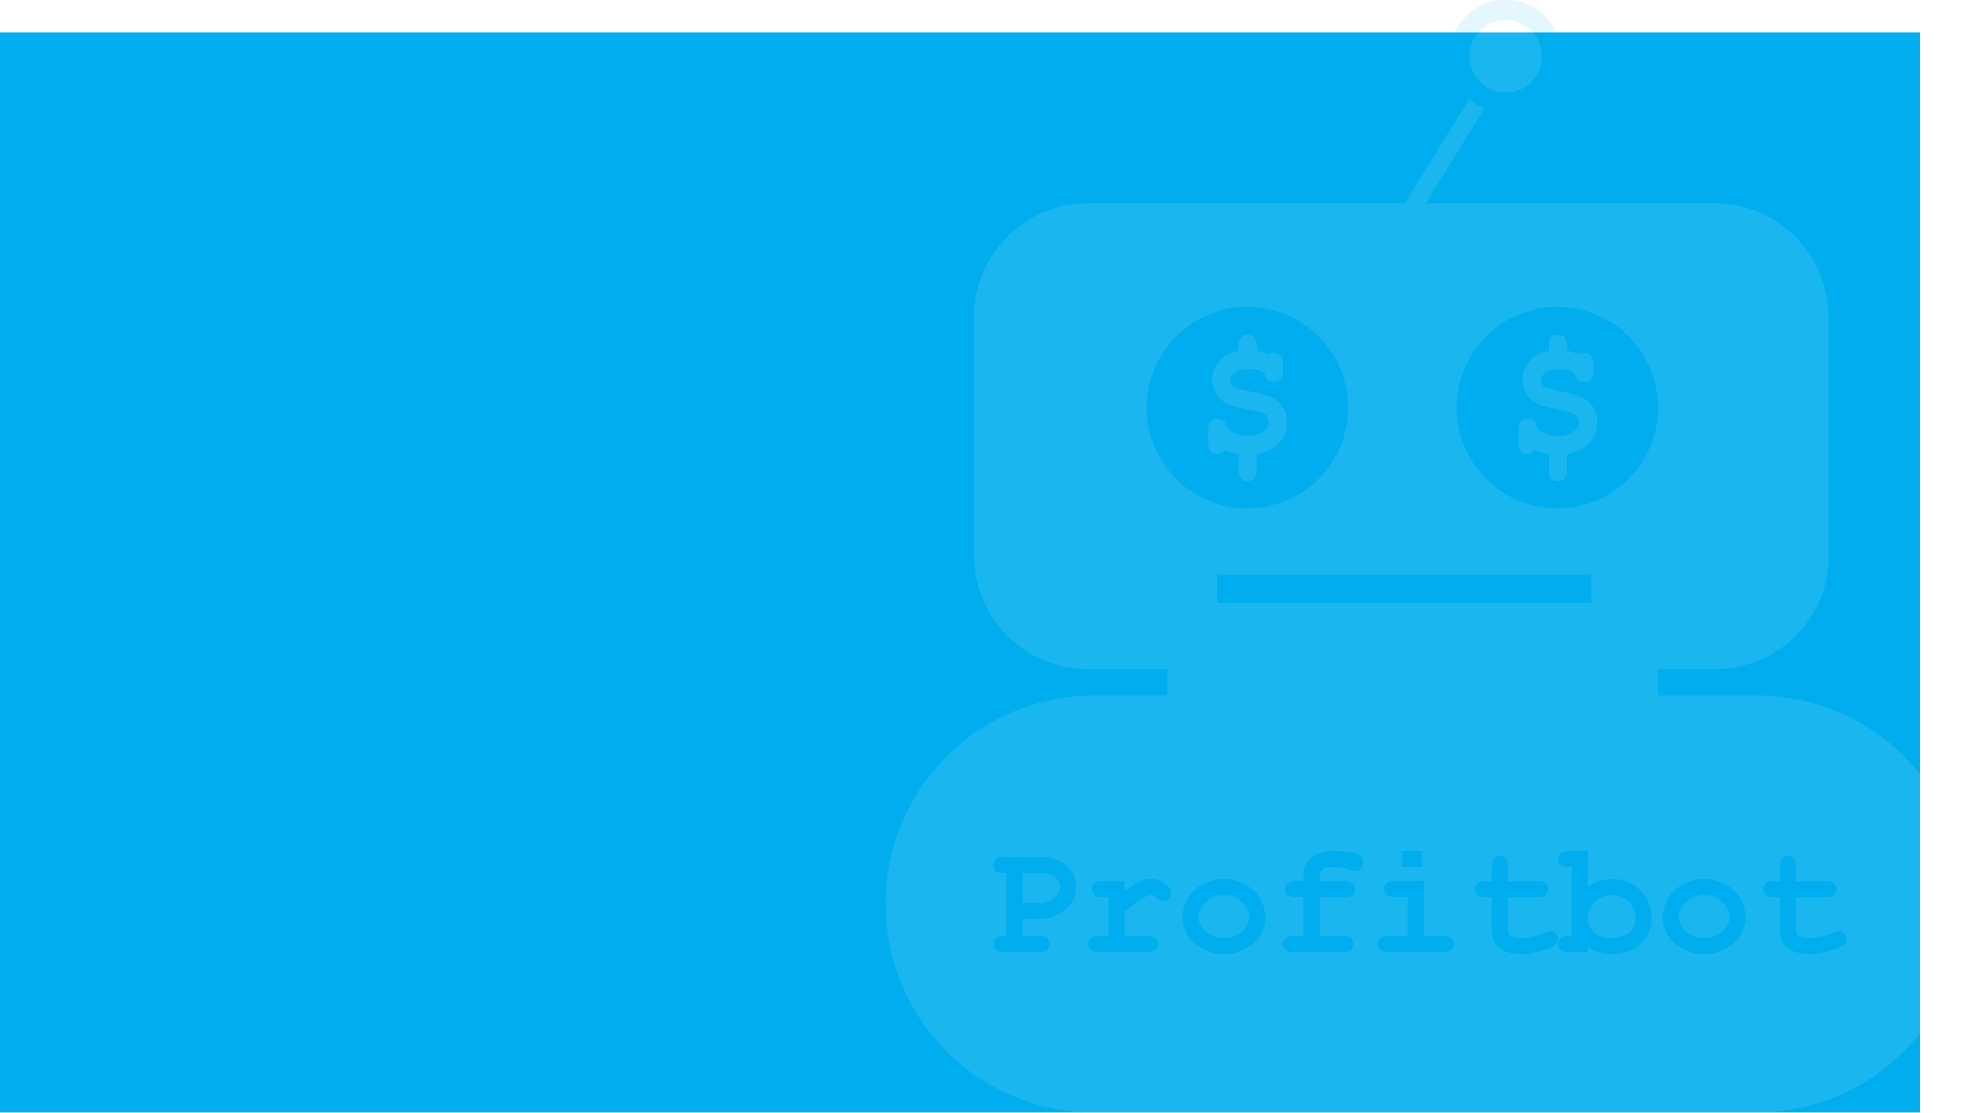
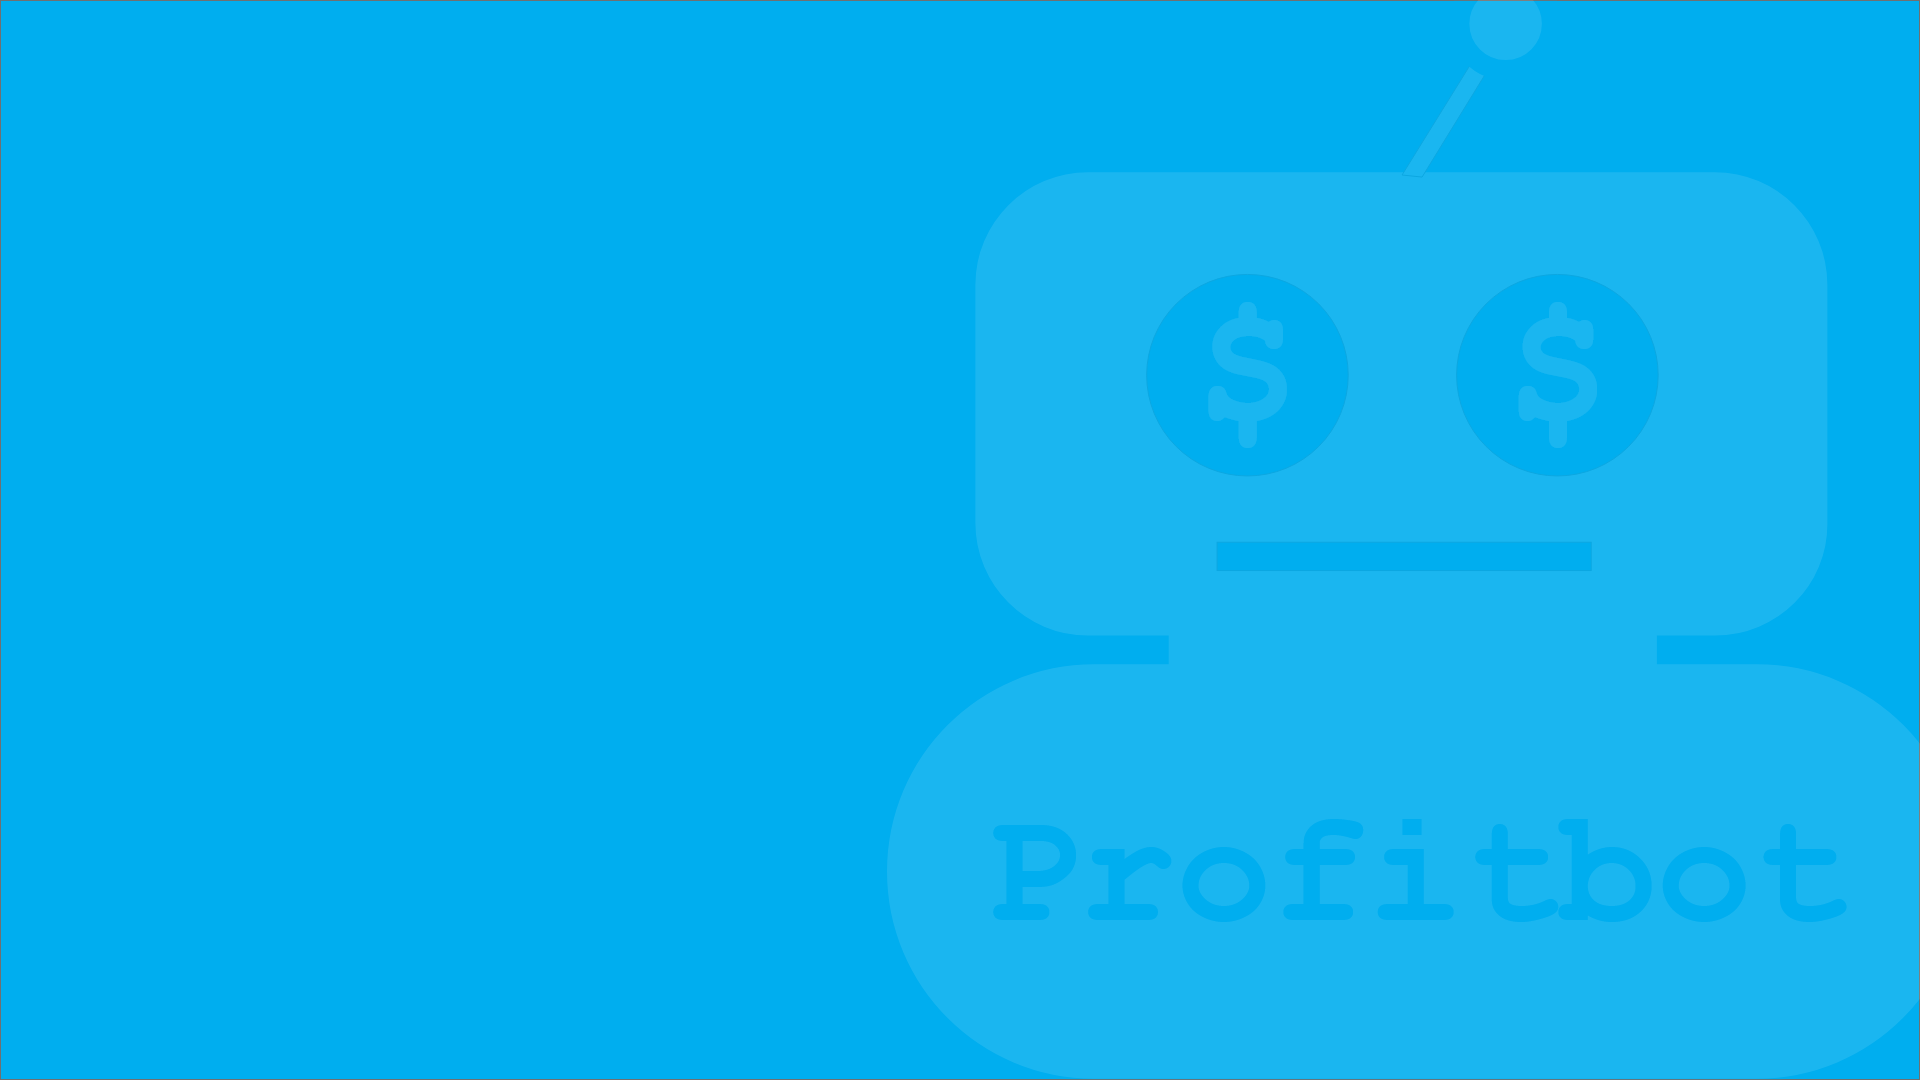
updates
updates

diff --git a/unit_3/index.html b/unit_3/index.html
@@ -11,28 +11,26 @@
 	<header id="home"></header>
 
 	<nav>
-		<ul>
-	  		<li><a href="#home">Home</a></li>
-	  		<li><a href="#three">Bots</a></li>
-	  		<li><a href="#four">Results</a></li>
-	  		<li><a href="#five">Timespans</a></li>
-		</ul>
-	</nav>
-
-  	<section>
-  		<div class="homecontainer">
-			<h1>ProfitPortal</h1>
-			<h2>Are you TotesBankin?</h2>
-			<button>Signup Today</button>
-			<img src="/images/background.png">
-		</div>
-	</section>
-
-	<div class="tripleimage">
-		<img id="chart" src="images/chart.jpg">
-		<img id="bar" src="images/bar.jpg">
-		<img id="time" src="images/time.jpg">
+	<ul>
+  		<li><a href="#home">Home</a></li>
+  		<li><a href="#three">Bots</a></li>
+  		<li><a href="#four">Results</a></li>
+  		<li><a href="#five">Timespans</a></li>
+	</ul>
+		</nav>
+		<div class="homecontainer">
+		<h1>ProfitPortal</h1>
+		<h2>Are you TotesBankin?</h2>
+		<button>Signup Today</button>
 	</div>
+
+	
+	<div class="tripleimage">
+		<!––<img id="chart" src="images/chart.jpg">
+		<!––<img id="bar" src="images/bar.jpg">
+		<!––<img id="time" src="images/time.jpg">
+	</div>
+
 
 	<div class="insidetext">
 	<h3 id="three">Bot Trading Strategies</h3>
@@ -40,11 +38,15 @@
 	<a class="back2top" title="Back to top" href="#">Back to Top</a>
 	</div>
 
+	<img src="images/money.jpg" class="money">
+
 	<div class="insidetext">
 	<h3 id="four">View your Results</h3>
 	<p>Lorem ipsum dolor sit amet, consectetur adipiscing elit, sed do eiusmod tempor incididunt ut labore et dolore magna aliqua. Ut enim ad minim veniam, quis nostrud exercitation ullamco laboris nisi ut aliquip ex ea commodo consequat. Duis aute irure dolor in reprehenderit in voluptate velit esse cillum dolore eu fugiat nulla pariatur. Excepteur sint occaecat cupidatat non proident, sunt in culpa qui officia deserunt mollit anim id est laborum.</p>
 	<a class="back2top" title="Back to top" href="#">Back to Top</a>
 	</div>
+
+	<img src="images/money.jpg" class="money">
 
 	<div class="insidetext">		
 	<h3 id="five">Timespans</h3>

diff --git a/unit_3/css/style.css b/unit_3/css/style.css
@@ -9,8 +9,11 @@
 
 body {
 	margin: 20px 40px 20px 40px;
-	background-size: cover;
 	text-align: center;
+	background: url(../images/background.png);
+	background-repeat: no-repeat;
+	background-size: contain;
+
 }
 
 ul {
@@ -133,12 +136,20 @@ button {
 	border: none;
 	font-weight: 800;
 	float: left;
+	border-radius: 3px;
 }
 
 .tripleimage {
-	margin: 450px 290px 100px 225px;
+	margin: 600px 290px 100px 225px;
 }
 
 .insidetext {
-	padding: 0px 0px 100px 0px;
+	padding: 0px 60px 100px 60px;
+}
+
+.money {
+	width: 1400px;
+	height: auto;
+	padding-bottom: 80px;
+}
 
